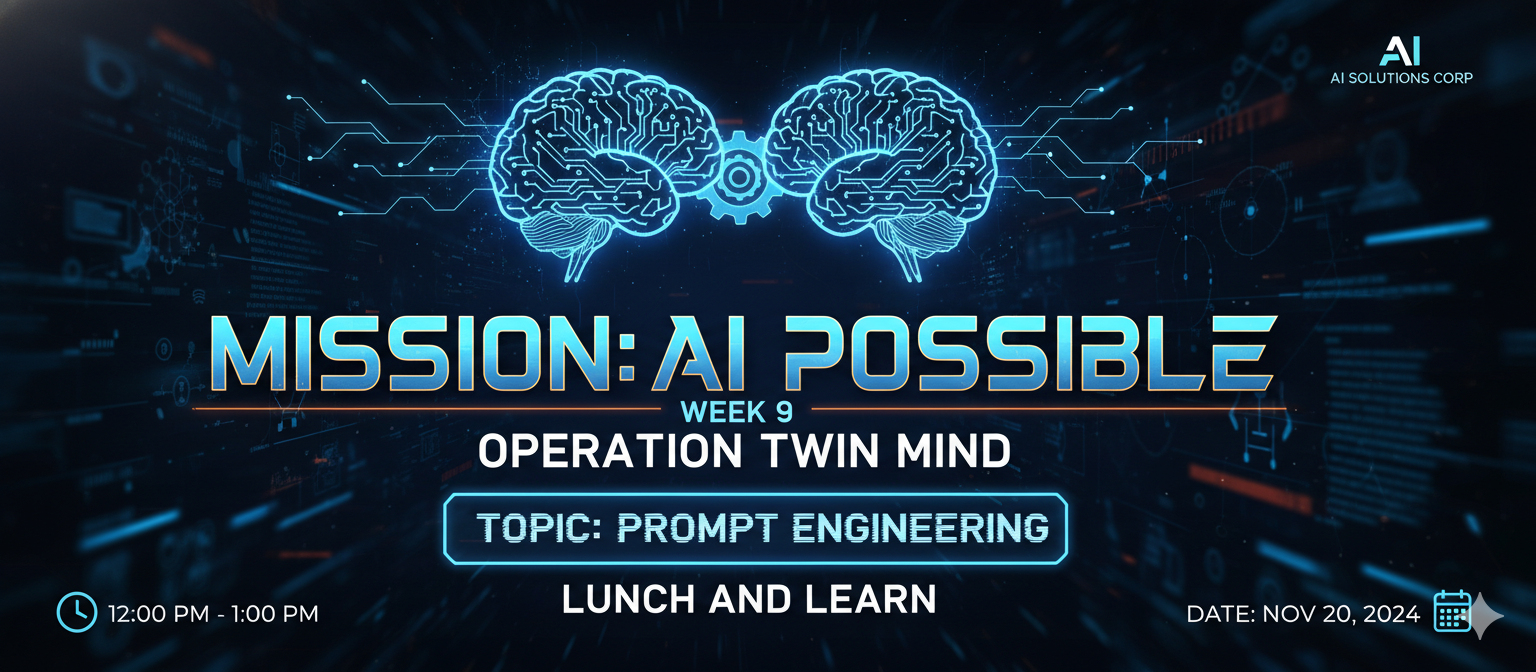
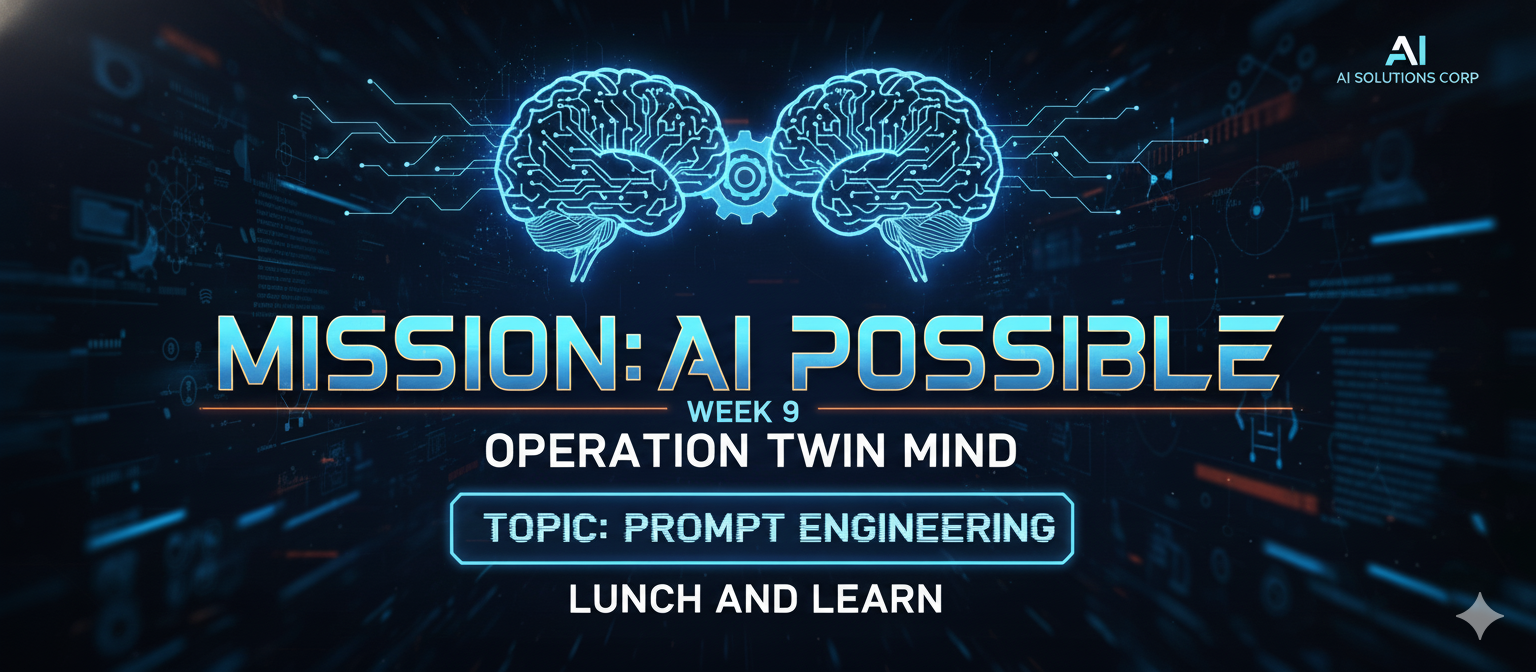
Reorganize lab prompts and update lunch & learn readme
Moved lab prompt markdown files into a new 'labs' subdirectory for better organization. Updated the lunch-and-learn readme with a table of contents, anchor links, and section dividers for improved navigation and clarity. Updated banner.png image.

diff --git a/campaign/weeks/09-operation-twin-mind/lunch-and-learn/readme.md b/campaign/weeks/09-operation-twin-mind/lunch-and-learn/readme.md
@@ -4,6 +4,13 @@
 
 This guide contains all of the hands-on activities for the Prompt Engineering Lunch & Learn. You’ll use [AmiChat](https://amichat.prod.amivero-solutions.com/) and the prompts/content below. Each exercise is self-contained.
 
+## Table of contents
+
+- [Exercise 1 – RGCC: Backoffice & Customer Support](#exercise-1)
+- [Exercise 2 – CRISP: GovCon RFP & Compliance](#exercise-2)
+- [Exercise 3 – Chain-of-Thought: Reasoning Through Work Problems](#exercise-3)
+- [Exercise 4 – Capstone: Build Your Own Prompt](#exercise-4)
+
 ## How to use this guide
 
 1. Open [AmiChat](https://amichat.prod.amivero-solutions.com/) in your browser.
@@ -14,6 +21,9 @@ This guide contains all of the hands-on activities for the Prompt Engineering Lu
 3. Tweak prompts and see how the model responds.
 
 ---
+
+<p align="center">🎛 🎛 🎛</p>
+<a id="exercise-1"></a>
 
 ## Exercise 1 – RGCC: Backoffice & Customer Support
 
@@ -291,6 +301,9 @@ Now, draft the replies.
 
 ---
 
+<p align="center">📐 📐 📐</p>
+<a id="exercise-2"></a>
+
 ## Exercise 2 – CRISP: GovCon RFP & Compliance
 
 In these scenarios, you’ll practice **CRISP**:
@@ -533,6 +546,9 @@ Generate the table now.
 
 ---
 
+<p align="center">🧠 🧠 🧠</p>
+<a id="exercise-3"></a>
+
 ## Exercise 3 – Chain-of-Thought: Reasoning Through Work Problems
 
 In these scenarios, you’ll practice **Chain-of-Thought (CoT)** prompting:
@@ -706,6 +722,9 @@ Show your reasoning for steps 1–4 before giving the final recommendation.
 - What CoT steps would you tweak to better match your real bid/no-bid process?
 
 ---
+
+<p align="center">🚀 🚀 🚀</p>
+<a id="exercise-4"></a>
 
 ## Exercise 4 – Capstone: Build Your Own Prompt
 
